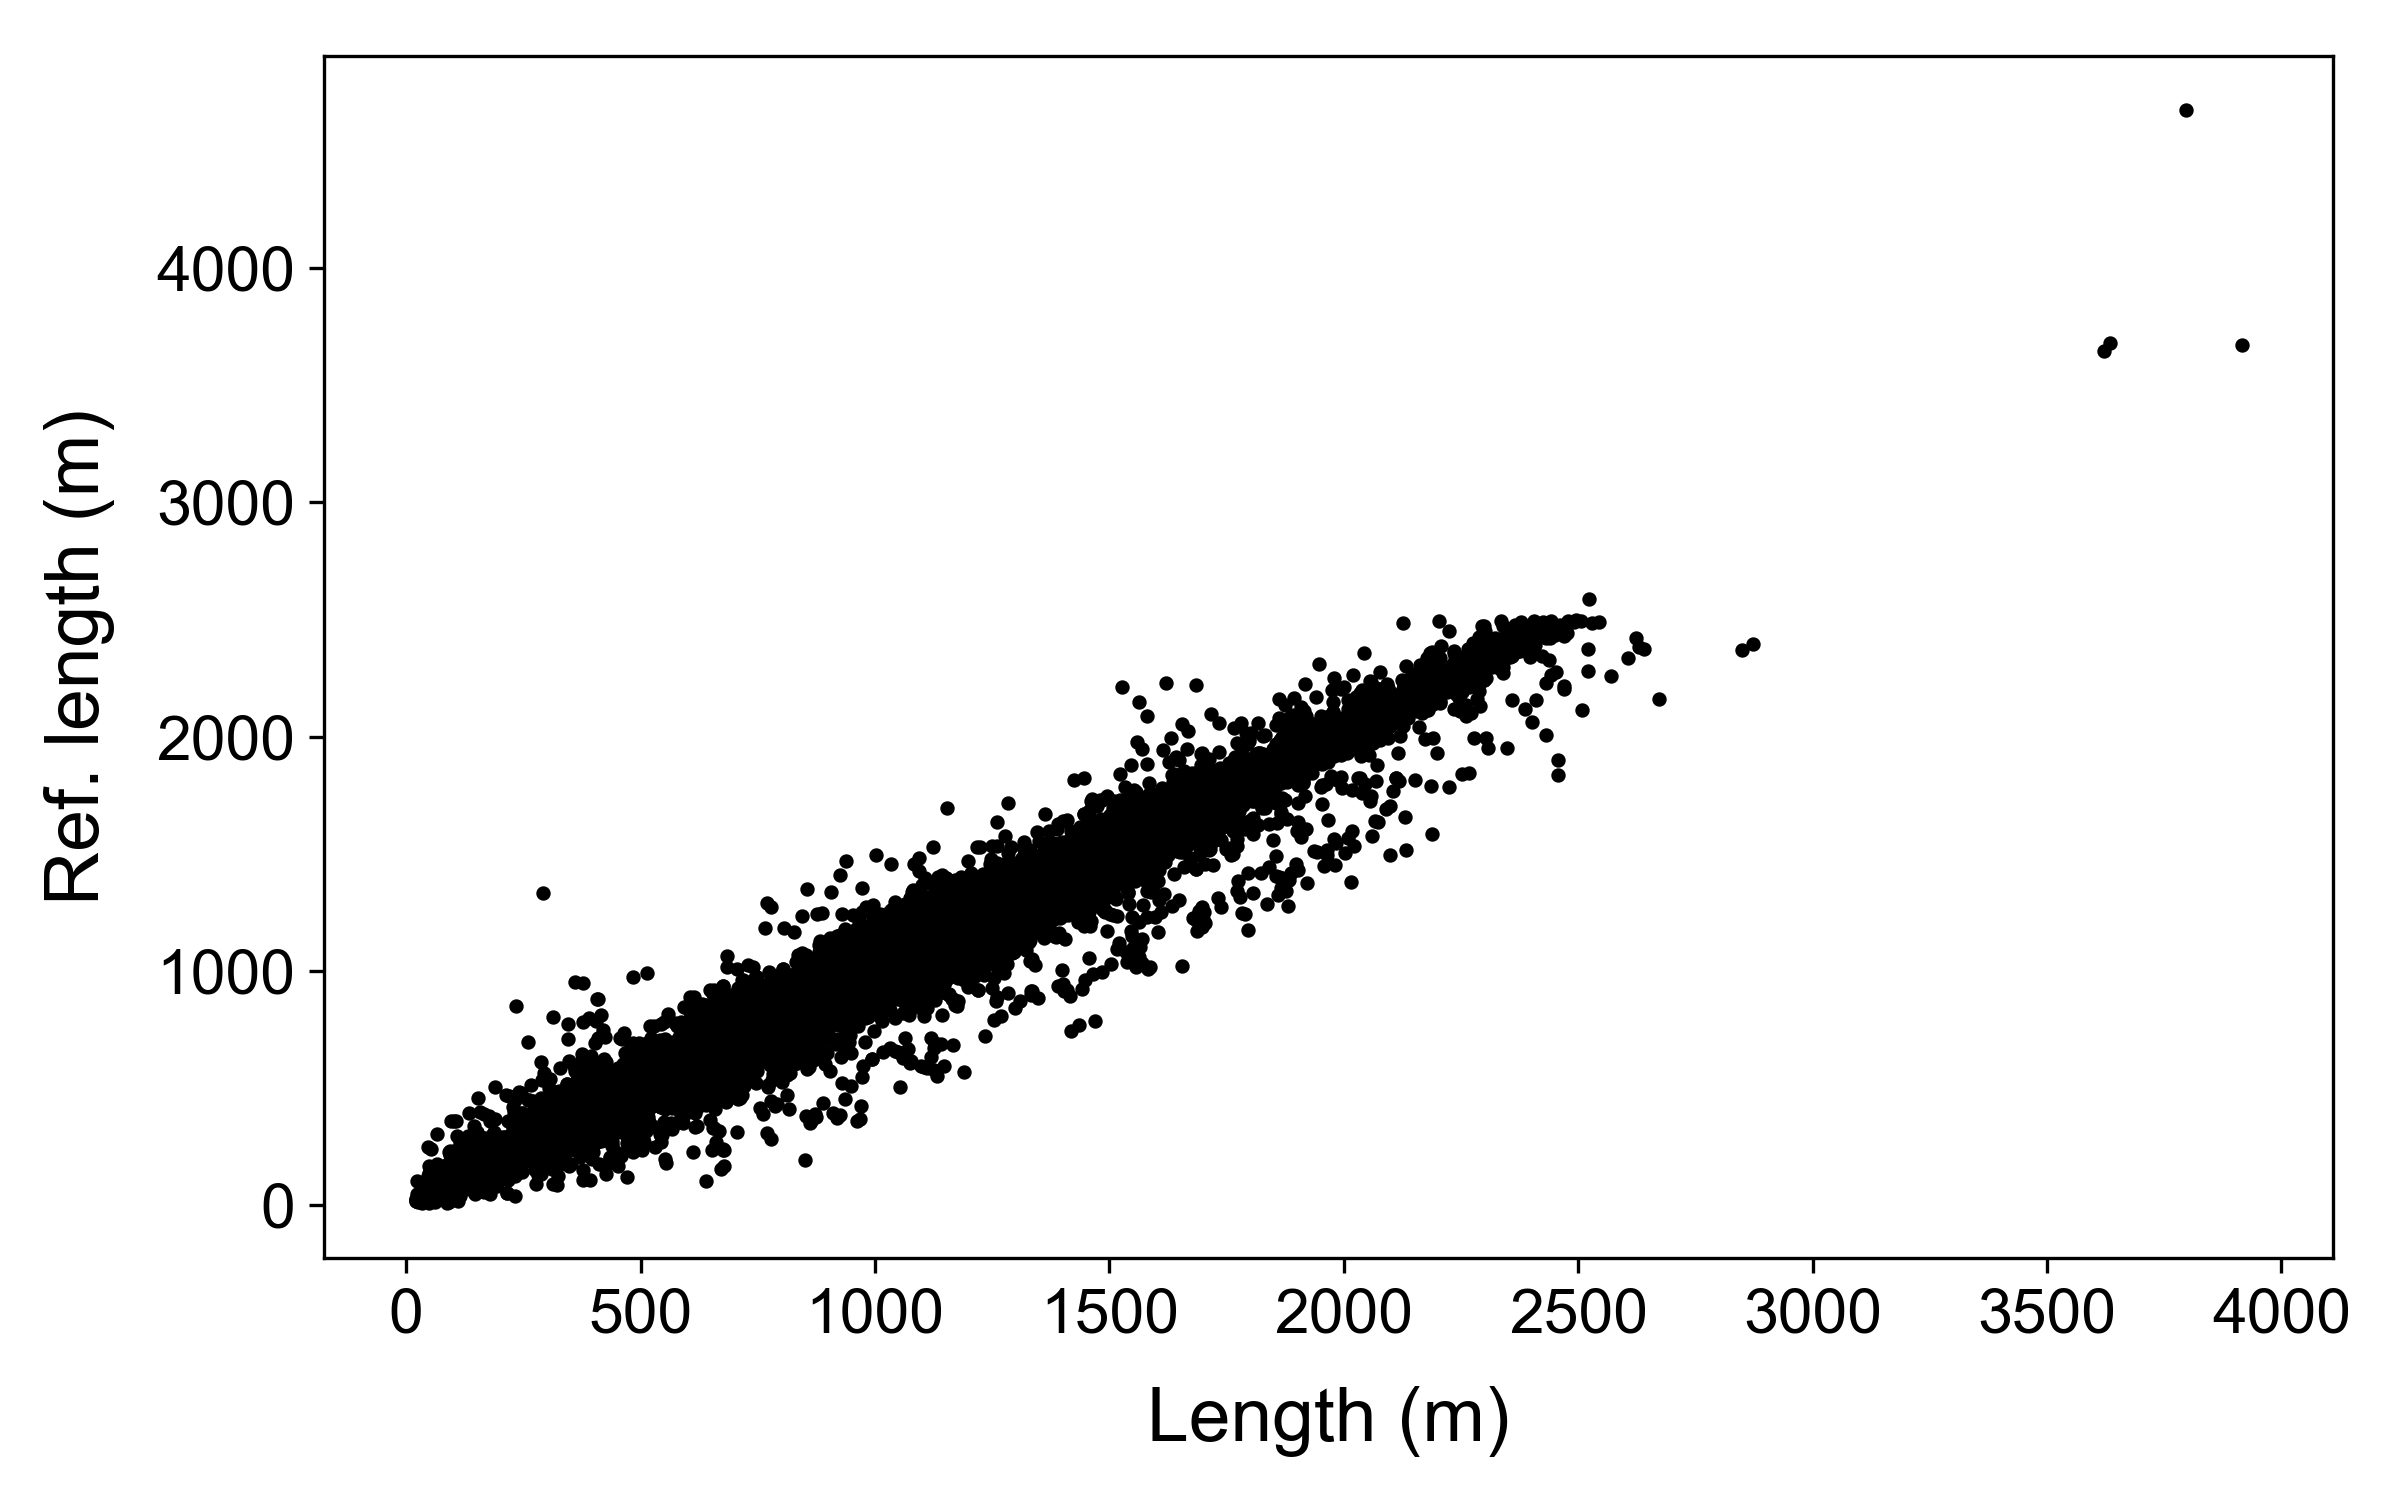
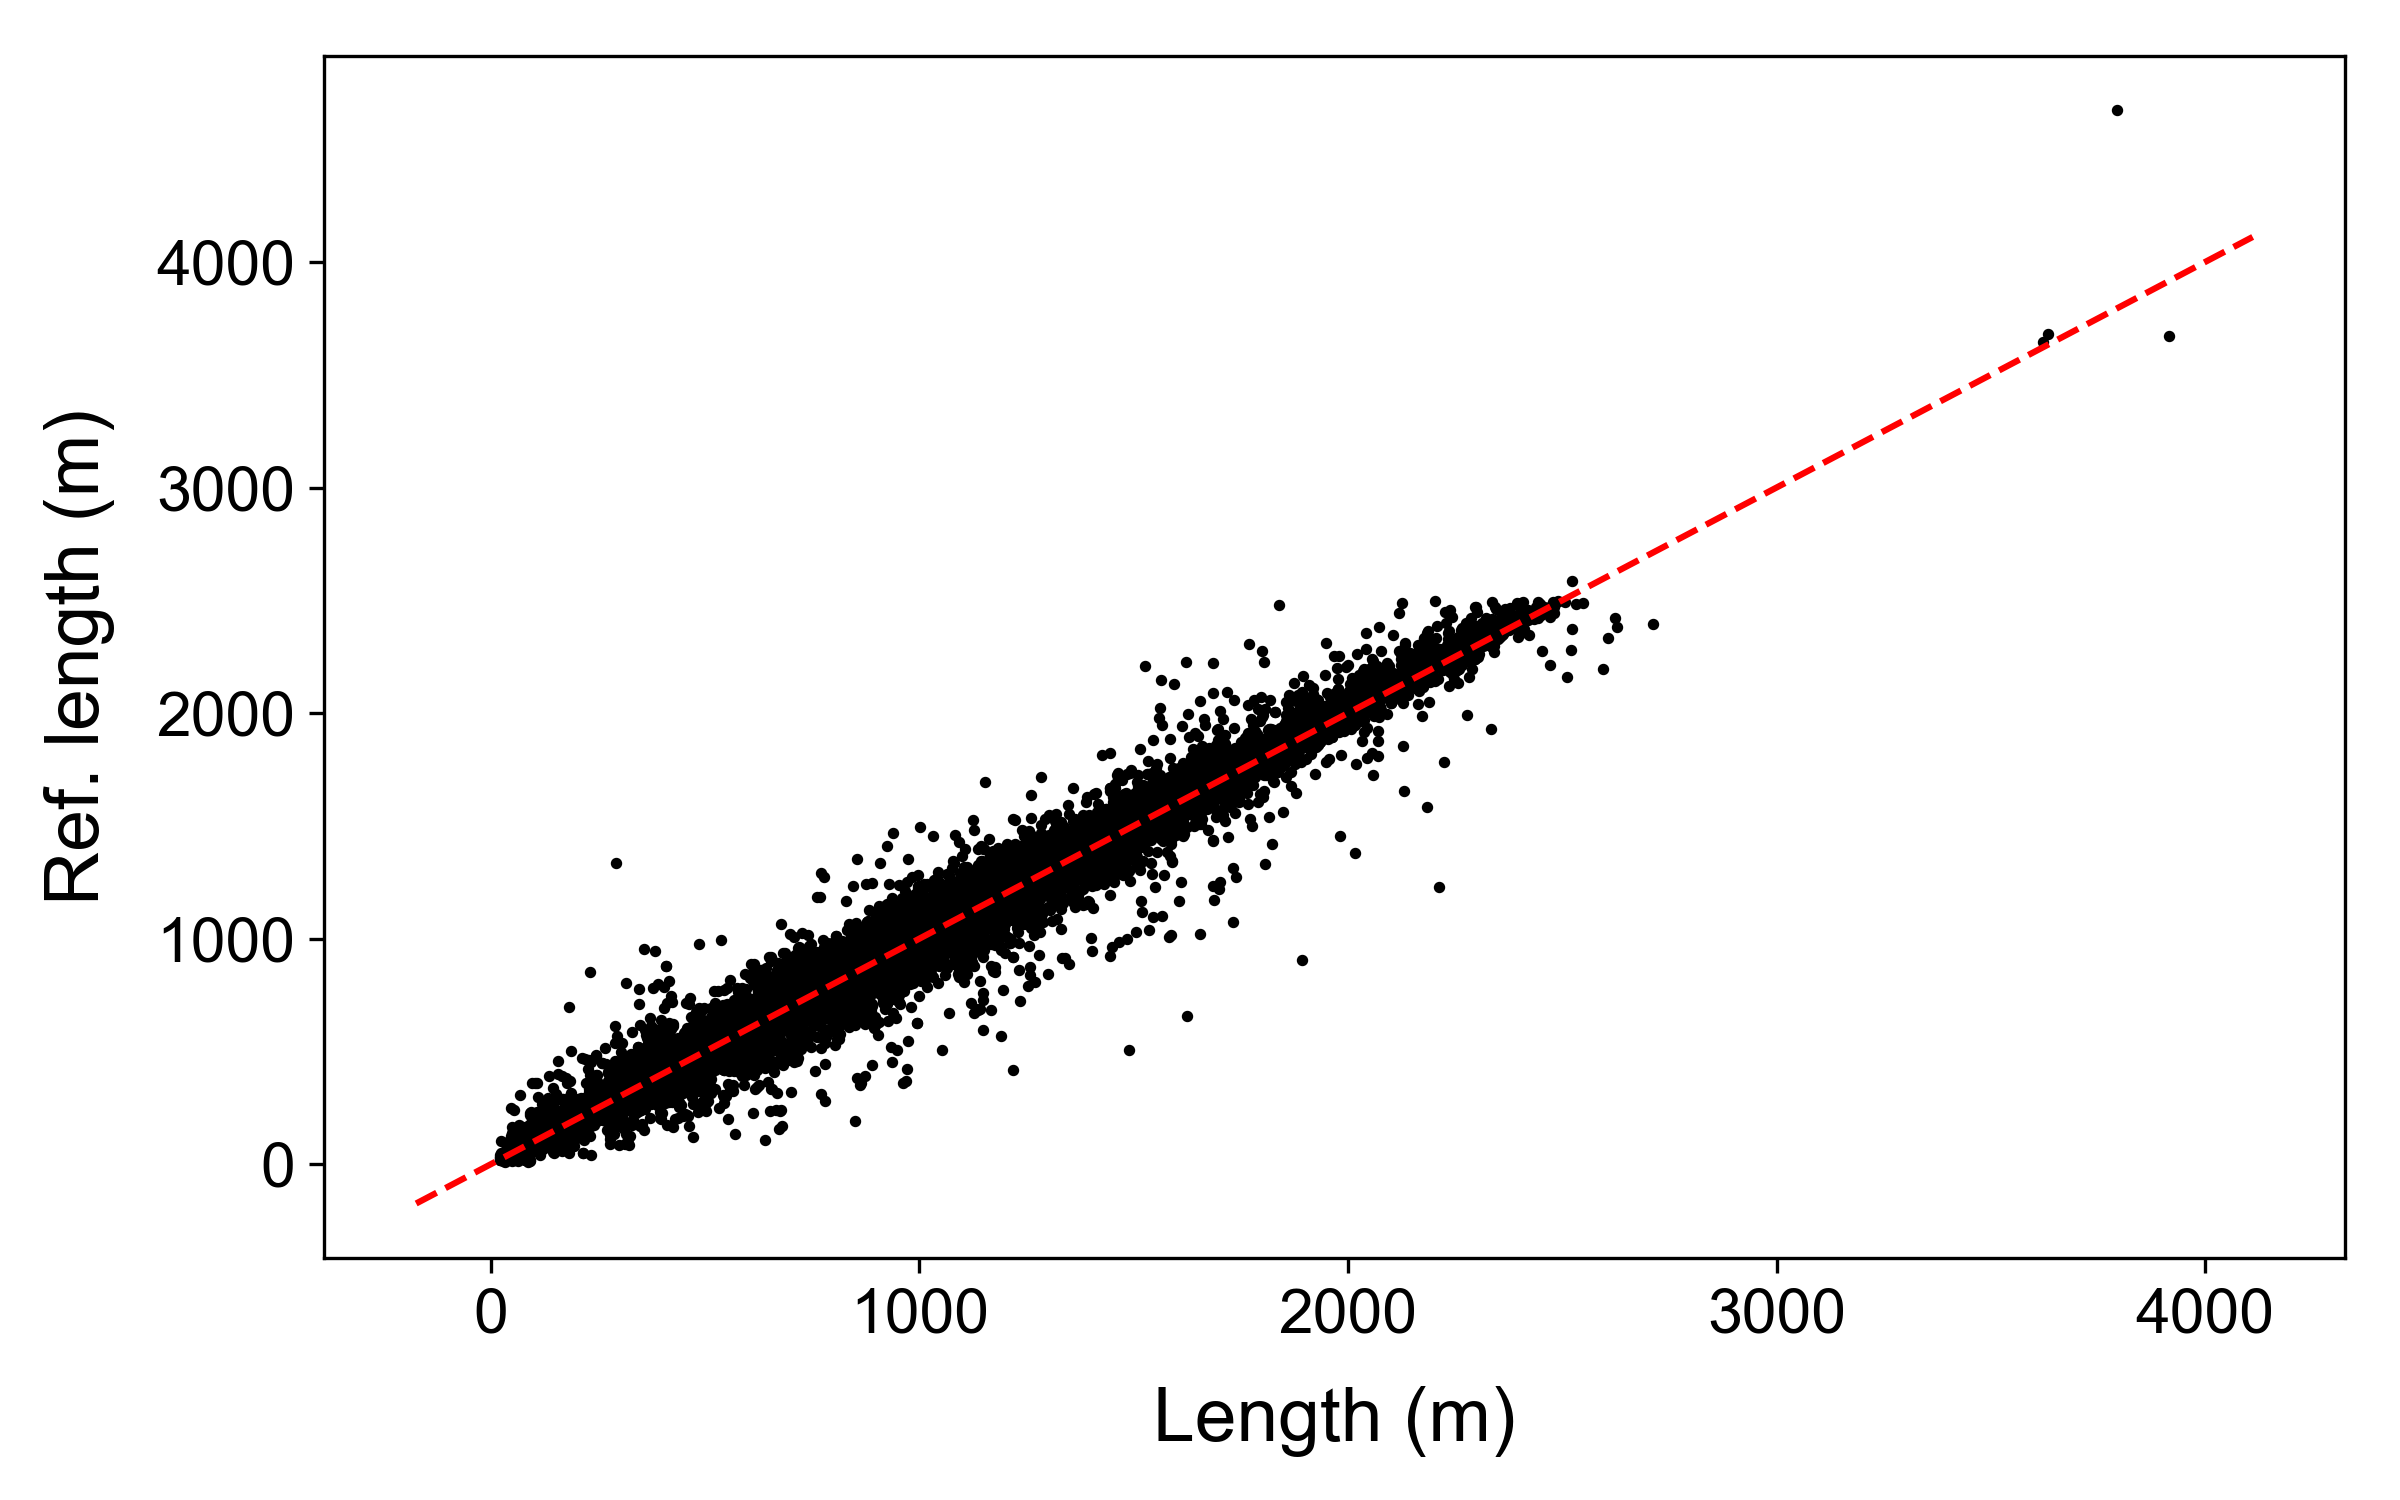
Add ablines to plots

diff --git a/src/scripts_analysis/commutes_walks_stats.py b/src/scripts_analysis/commutes_walks_stats.py
@@ -16,6 +16,7 @@ import utils.exposures as exps
 walks_in_file = 'run_5_set_1'
 problem_axyinds = [3933756673875]
 
+
 #### READ & PROCESS WALKS & GRID ####
 #####################################
 
@@ -65,6 +66,7 @@ s_paths_work = s_paths.query("to_pt_mode == 'none'")
 print('short paths to pt count:', len(s_paths_pt.index), '(of', str(count_before)+')')
 print('short paths to work count:', len(s_paths_work.index), '(of', str(count_before)+')')
 
+
 #### PATH LENGTH STATISTICS ####
 ################################
 
@@ -90,17 +92,18 @@ path_len_stats
 #%% plot DT len diff stats
 s_paths_filt = pstats.filter_by_min_value(s_paths, 'length', 20)
 s_paths_filt = pstats.filter_by_max_value(s_paths_filt, 'DT_len_diff', 7000)
-fig = plots.scatterplot(s_paths_filt, xcol='length', ycol='DT_len', yignore=-9999, xlabel='Length (m)', ylabel='Ref. length (m)')
+fig = plots.scatterplot(s_paths_filt, xcol='length', ycol='DT_len', yignore=-9999, xlabel='Length (m)', ylabel='Ref. length (m)', line='xy')
 fig.savefig('plots/paths_len_ref_len_scatter.png', format='png', dpi=300)
 fig = plots.scatterplot(s_paths_filt, xcol='length', ycol='DT_len_diff', yignore=-9999, xlabel='Length (m)', ylabel='Ref. length diff. (m)')
 fig.savefig('plots/paths_DT_len_diff_scatter.png', format='png', dpi=300)
 fig = plots.boxplot(s_paths_filt, col='DT_len_diff', valignore=-9999, label='Ref. length diff. (m)')
 fig.savefig('plots/paths_DT_len_diff_boxplot.png', format='png', dpi=300)
-fig = plots.scatterplot(s_paths_filt, xcol='length', ycol='DT_len_diff_rat', yignore=-9999, xlabel='Length (m)', ylabel='Ref. length diff. (%)')
+fig = plots.scatterplot(s_paths_filt, xcol='length', ycol='DT_len_diff_rat', yignore=-9999, xlabel='Length (m)', ylabel='Diff. to ref. length (%)', line='y0')
 fig.savefig('plots/paths_DT_len_diff_rat_scatter.png', format='png', dpi=300)
 
 #%% export paths with stats to file
-s_paths.to_file('outputs/YKR_commutes_output/home_paths.gpkg', layer='run_3_stats', driver='GPKG')
+s_paths.to_file('outputs/YKR_commutes_output/home_paths.gpkg', layer=walks_in_file+'_stats', driver='GPKG')
+
 
 #### FILTER OUT PATHS FROM PROBLEMATIC AXYINDS ####
 ###################################################
@@ -116,6 +119,7 @@ s_paths_work = s_paths_work[~s_paths_work['from_axyind'].isin(skip_axyinds)]
 
 count_after = len(s_paths)
 print('Filtered out:', count_before-count_after, 'shortest paths')
+
 
 #### STATFI GRID LEVEL NOISE STATISTICS ####
 ############################################

diff --git a/src/utils/plots.py b/src/utils/plots.py
@@ -7,6 +7,8 @@ from matplotlib import rcParams
 rcParams['font.family'] = 'sans-serif'
 rcParams['font.sans-serif'] = ['Arial']
 import matplotlib.pyplot as plt
+import matplotlib.lines as mlines
+import matplotlib.transforms as mtransforms
 
 def set_plot_style():
     plt.style.use('default')
@@ -80,7 +82,14 @@ def plot_exposure_times(exp_times):
 
     return fig
 
-def scatterplot(data_df, xcol=None, ycol=None, yignore=None, xlabel=None, ylabel=None):
+def abline(slope, intercept):
+    '''Plot a line from slope and intercept'''
+    axes = plt.gca()
+    x_vals = np.array(axes.get_xlim())
+    y_vals = intercept + slope * x_vals
+    plt.plot(x_vals, y_vals, color='red', linestyle='dashed')
+
+def scatterplot(data_df, xcol=None, ycol=None, yignore=None, line=None, xlabel=None, ylabel=None):
     if (yignore is not None):
         df = data_df.query(f'''{ycol} != {yignore}''')
         print('filtered:', len(data_df)-len(df), 'rows with y value:', yignore)
@@ -91,9 +100,19 @@ def scatterplot(data_df, xcol=None, ycol=None, yignore=None, xlabel=None, ylabel
 
     fig, ax = plt.subplots(figsize=(8,5))
 
-    ax.scatter(df[xcol], df[ycol], c='black', s=6)
+    ax.scatter(df[xcol], df[ycol], c='black', s=3)
     ax.set_ylabel(ylabel)
     ax.set_xlabel(xlabel)
+    
+    if (line is not None):
+        if (line == 'xy'):
+            abline(1, 0)
+            # line = mlines.Line2D([0, 1], [0, 1], color='red')
+            # transform = ax.transAxes
+            # line.set_transform(transform)
+            # ax.add_line(line)
+        if (line == 'y0'): 
+            abline(0, 0)
 
     ax.xaxis.label.set_size(18)
     ax.yaxis.label.set_size(18)
